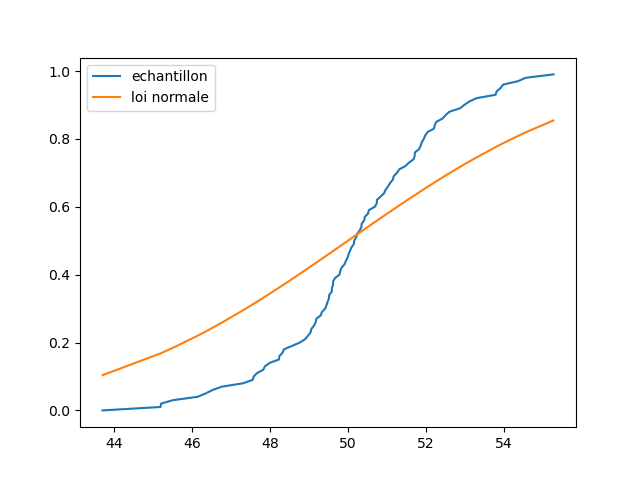
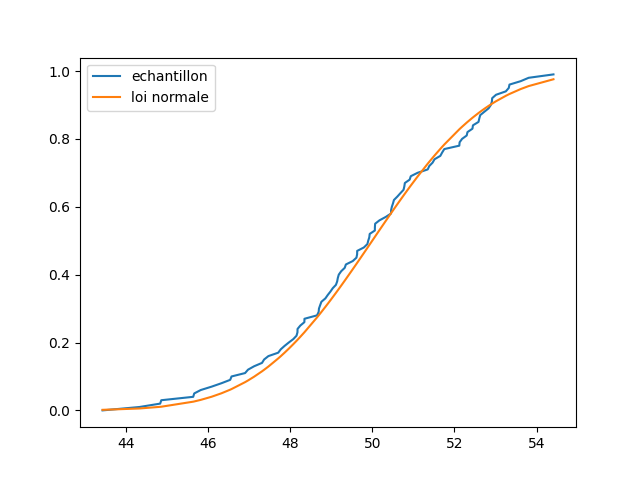
correction test ks

diff --git a/Augustin/Dossier_SSFEM/ks_stat.py b/Augustin/Dossier_SSFEM/ks_stat.py
@@ -61,8 +61,8 @@ class ks:
         #On affiche True si l'hypothèse est validée, False sinon
         calcul_max = 0
         for j in range(self.size_sample-1):
-            normal_cdf_j = norm.cdf(self.echantillon[j],loc=self.mean,scale=self.var)
-            normal_cdf_j1 = norm.cdf(self.echantillon[j+1],loc=self.mean,scale=self.var)
+            normal_cdf_j = norm.cdf(self.echantillon[j],loc=self.mean,scale=np.sqrt(self.var))
+            normal_cdf_j1 = norm.cdf(self.echantillon[j+1],loc=self.mean,scale=np.sqrt(self.var))
             if np.abs(self.F(self.echantillon[j]) - normal_cdf_j) > calcul_max:
                 calcul_max = np.abs(self.F(self.echantillon[j]) - normal_cdf_j)
                 # print("Nouveau max : ", calcul_max, " avec indice : ", j, " et [x_j]= ", self.echantillon[j])
@@ -88,7 +88,7 @@ class ks:
         print(len(self.echantillon))
         #plt.hist(self.echantillon,bins=20,density=True,alpha=0.5)
         plt.plot(self.echantillon,[self.F(self.echantillon[i]) for i in range(self.size_sample)],label="echantillon")
-        plt.plot(self.echantillon,[norm.cdf(self.echantillon[i],loc=self.mean,scale=self.var) for i in range(self.size_sample)],label="loi normale")
+        plt.plot(self.echantillon,[norm.cdf(self.echantillon[i],loc=self.mean,scale=np.sqrt(self.var)) for i in range(self.size_sample)],label="loi normale")
         plt.legend()
         plt.savefig("ks_ssfem_14_10.png")
         plt.show()
